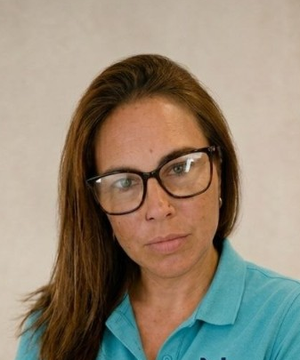
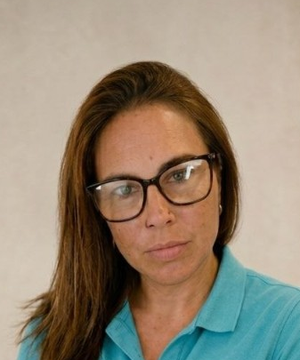
fix(landing): stop CSS from cropping hero forehead
object-position 12–15% was anchoring below the hairline; use object-top
so the portrait keeps the headroom baked into the asset.

diff --git a/components/landing/FlyerHero.tsx b/components/landing/FlyerHero.tsx
@@ -67,7 +67,7 @@ export function FlyerHero() {
             src="/images/hero-founder.png"
             alt="NDIS support worker — NotesClaim is built for frontline heroes"
             fill
-            className="object-cover object-[55%_15%] md:object-[50%_12%]"
+            className="object-cover object-top"
             sizes="(max-width: 768px) 100vw, 55vw"
             priority
           />
